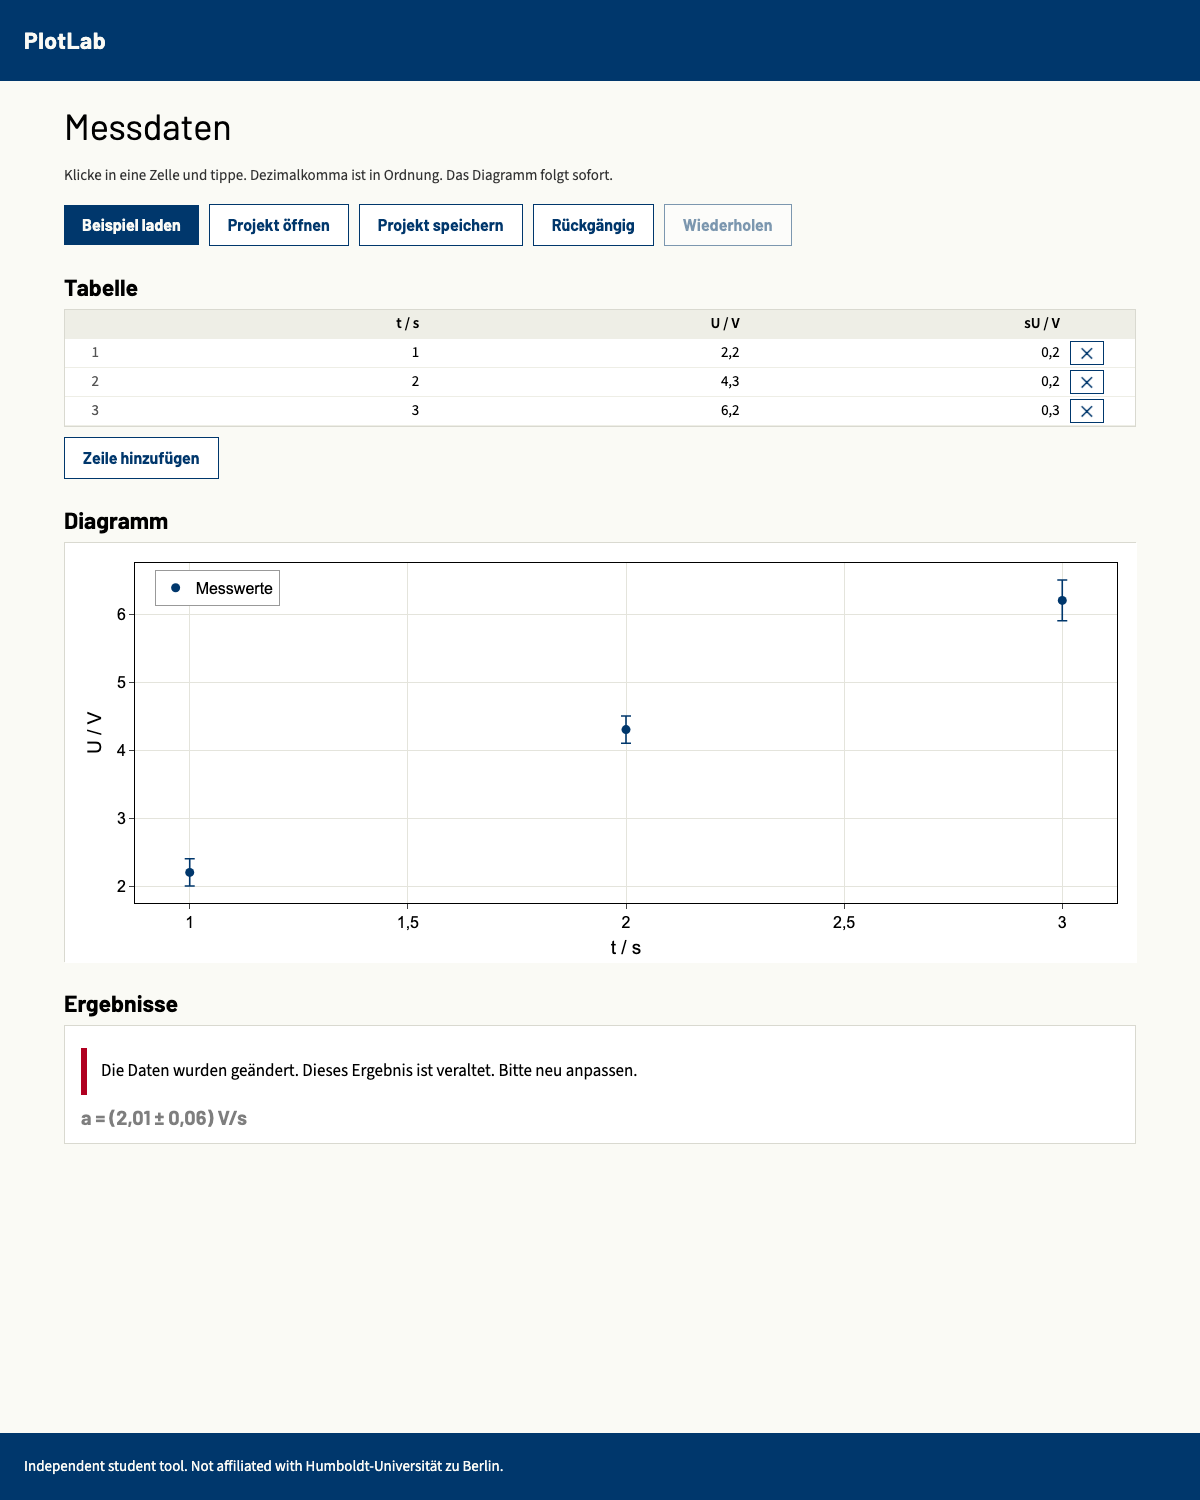
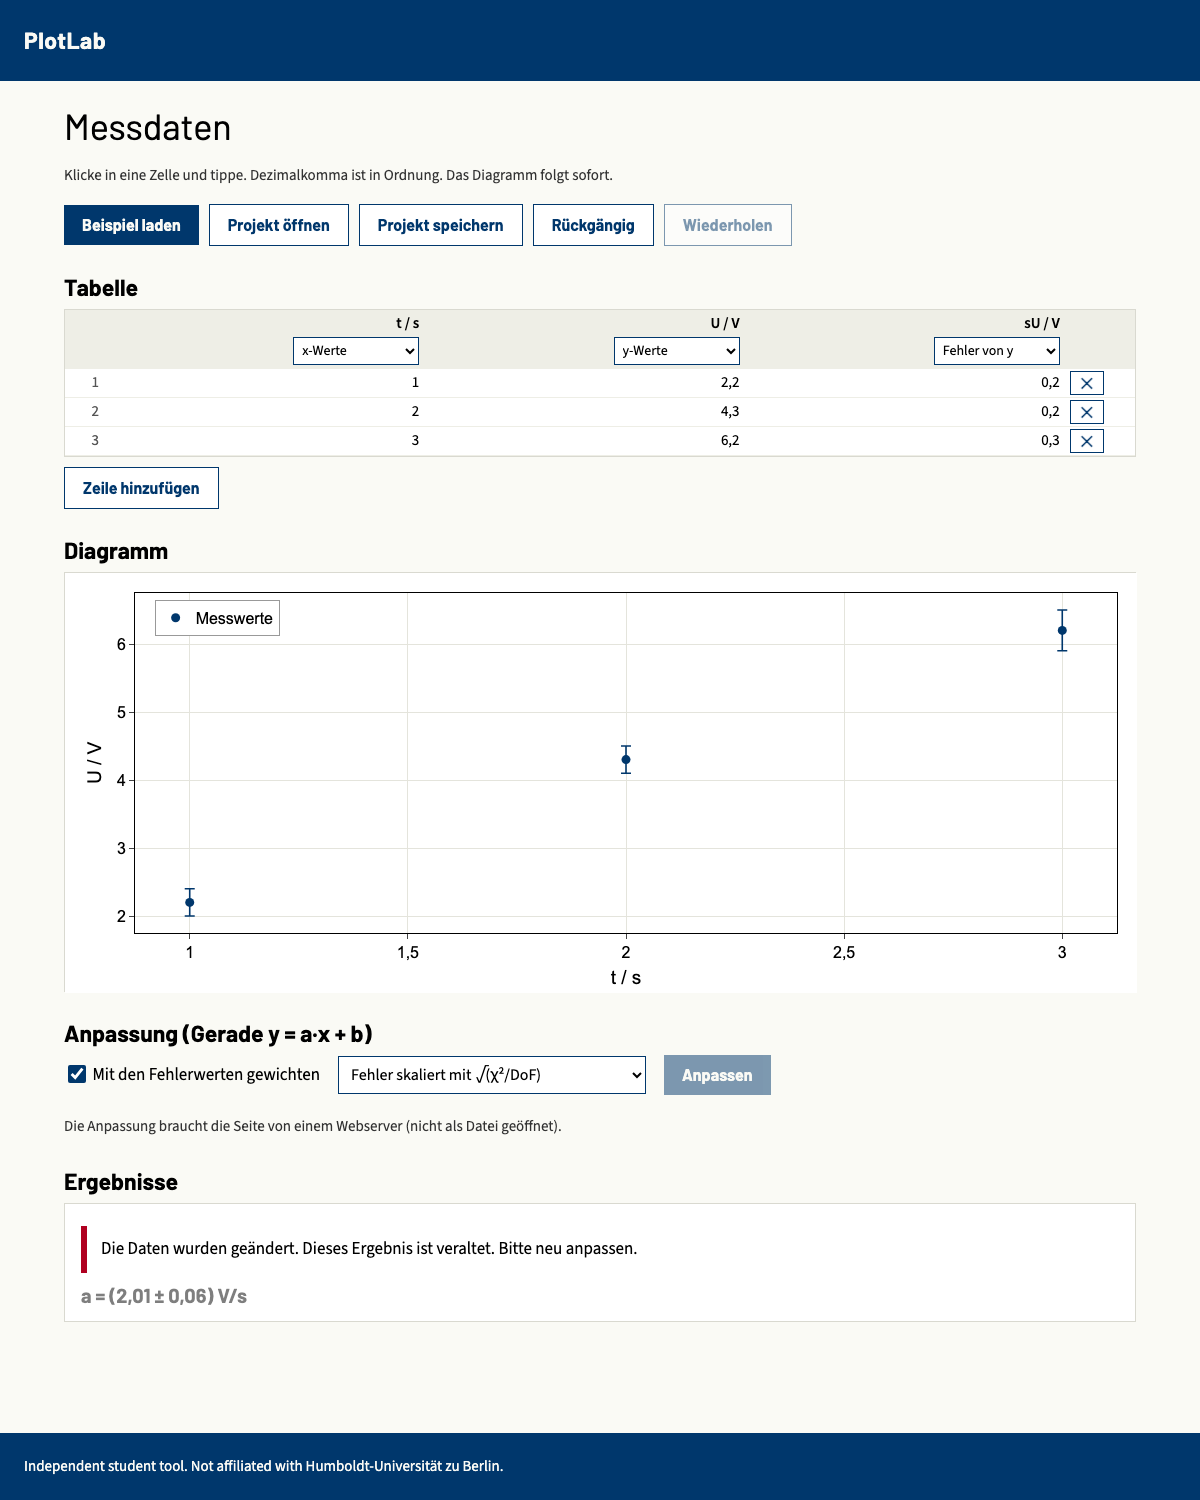
Add column roles and the weighted line fit to the app

diff --git a/app/index.html b/app/index.html
@@ -31,6 +31,16 @@
   table { border-collapse:collapse; width:100%; font-size:15px; line-height:22px; font-variant-numeric:tabular-nums; }
   th,td { padding:0; border-bottom:1px solid var(--soft); }
   th { background:var(--soft); position:sticky; top:0; font-weight:600; padding:3px 10px; text-align:right; }
+  select { font:14px "Source Sans 3", system-ui, sans-serif; padding:2px 4px; border:1px solid var(--blue); border-radius:0; background:#fff; max-width:100%; }
+  th select { display:block; margin:2px 0 0 auto; font-weight:400; }
+  .fitbar { display:flex; gap:18px; flex-wrap:wrap; align-items:center; margin-bottom:10px; }
+  .fitbar select { font-size:16px; padding:6px 8px; }
+  .fitbar input[type=checkbox] { width:18px; height:18px; accent-color:var(--blue); vertical-align:-3px; }
+  .fitbar label.off { color:#666; }
+  .detail { font-size:15px; line-height:24px; margin:6px 0 0; }
+  #results table { width:auto; margin:8px 0; }
+  #results th { position:static; padding:3px 12px; }
+  #results td { padding:3px 12px; text-align:right; }
   td.n { padding:3px 10px; color:#555; text-align:right; width:44px; }
   td input { width:100%; min-width:90px; border:0; border-radius:0; padding:3px 10px; font:inherit; text-align:right; background:transparent; }
   td input:focus { outline:2px solid var(--blue); outline-offset:-2px; background:#fff; }
@@ -67,6 +77,14 @@
   </div>
   <h2>Diagramm</h2>
   <div id="plot"><div class="empty">Noch keine Daten.</div></div>
+  <h2>Anpassung (Gerade y = a·x + b)</h2>
+  <div class="fitbar">
+    <label id="wlabel"><input type="checkbox" id="weighted"> Mit den Fehlerwerten gewichten</label>
+    <select id="errm" aria-label="Fehlermethode"><option value="scaled">Fehler skaliert mit √(χ²/DoF)</option><option value="unscaled">Fehler unskaliert (aus den Fehlerwerten)</option></select>
+    <button class="btn" id="fit" disabled>Anpassen</button>
+    <span class="hint" id="fitstate">Rechenmodul (SciPy) wird geladen …</span>
+  </div>
+  <div id="fitmsg" class="msg" role="alert" hidden></div>
   <h2>Ergebnisse</h2>
   <div id="results"><div class="empty">Noch keine Ergebnisse.</div></div>
 </main>
@@ -79,6 +97,7 @@ const $ = id => document.getElementById(id);
 const esc = s => String(s).replace(/[&<>"]/g, c => ({ "&": "&amp;", "<": "&lt;", ">": "&gt;", '"': "&quot;" }[c]));
 const fmt = new Intl.NumberFormat("de-DE", { maximumFractionDigits: 10 });
 const EXAMPLE = [["t / s", "U / V", "sU / V"], [[1, 2.1, 0.2], [2, 4.3, 0.2], [3, 6.2, 0.3], [4, 8.4, 0.3], [5, 9.9, 0.4]]];
+const ROLE_LABELS = { x: "x-Werte", y: "y-Werte", yerr: "Fehler von y", unused: "nicht verwendet" };
 let proj = null;
 
 // "1,5" and "1.5" both work; empty means no value. Returns undefined for text that is not a number.
@@ -131,13 +150,15 @@ function restoreAutosave() {
 function setProject(p) {
   proj = p; undo = []; redo = []; editKey = null; updateHist();
   $("msg").hidden = true;
-  $("saveproj").disabled = $("addrow").disabled = false;
+  $("saveproj").disabled = $("addrow").disabled = false; if (worker?.ready && !pending) $("fit").disabled = false;
   render();
 }
 function showMsg(t) { $("msg").textContent = t; $("msg").hidden = false; }
 
 function renderTable() {
-  const head = "<tr><th></th>" + proj.columns.map(c => `<th>${esc(c.name)}</th>`).join("") + "<th></th></tr>";
+  const roleSel = (c, j) => `<select class="role" data-role="${j}" aria-label="Rolle von ${esc(c.name)}">` +
+    Object.entries(ROLE_LABELS).map(([r, t]) => `<option value="${r}"${c.role === r ? " selected" : ""}>${t}</option>`).join("") + "</select>";
+  const head = "<tr><th></th>" + proj.columns.map((c, j) => `<th>${esc(c.name)}${roleSel(c, j)}</th>`).join("") + "<th></th></tr>";
   const body = Array.from({ length: nrows() }, (_, i) => `<tr><td class="n">${i + 1}</td>` +
     proj.columns.map((c, j) => `<td><input data-r="${i}" data-c="${j}" aria-label="${esc(c.name)}, Zeile ${i + 1}" value="${c.values[i] === null ? "" : fmt.format(c.values[i])}" inputmode="decimal"></td>`).join("") +
     `<td><button class="btn alt small" data-del="${i}" aria-label="Zeile ${i + 1} löschen">✕</button></td></tr>`).join("");
@@ -151,26 +172,52 @@ function renderPlot() {
   const trace = { x: idx.map(i => x.values[i]), y: idx.map(i => y.values[i]), mode: "markers", type: "scatter", name: "Messwerte", marker: { color: "#00376C", size: 9 } };
   if (e) trace.error_y = { type: "data", array: idx.map(i => e.values[i] ?? 0), visible: true, color: "#00376C", thickness: 1.6, width: 5 };
   const ax = t => ({ title: { text: t, standoff: 10 }, showline: true, linecolor: "#000", mirror: true, ticks: "outside", gridcolor: "#e4e4dc", zeroline: false, exponentformat: "none" });
-  Plotly.react("plot", [trace], { font: { family: "Arial, Helvetica, sans-serif", size: 16, color: "#000" }, separators: ",.",
+  const traces = [trace], fit = freshFit();
+  if (fit) {
+    const xs = idx.map(i => x.values[i]), lo = Math.min(...xs), hi = Math.max(...xs), [a, b] = fit.params.map(q => q.value);
+    traces.push({ x: [lo, hi], y: [a * lo + b, a * hi + b], mode: "lines", type: "scatter", name: "Anpassung", line: { color: "#D55E00", width: 2.5 } });
+  }
+  Plotly.react("plot", traces, { font: { family: "Arial, Helvetica, sans-serif", size: 16, color: "#000" }, separators: ",.",
     margin: { l: 70, r: 20, t: 20, b: 60 }, xaxis: ax(x.name), yaxis: ax(y.name), paper_bgcolor: "#fff", plot_bgcolor: "#fff",
     showlegend: true, legend: { x: 0.02, y: 0.98, bgcolor: "#fff", bordercolor: "#999", borderwidth: 1 } }, { displaylogo: false, responsive: true });
+}
+const freshFit = () => proj.results.find(r => r.kind === "fit" && !isStale(proj, r));
+const uOf = q => (proj.settings.errMethod === "unscaled" && q.uUnscaled !== undefined) ? q.uUnscaled : (q.uScaled ?? q.u);
+function fitDetail(r) {
+  const f = new Intl.NumberFormat("de-DE", { maximumSignificantDigits: 6 }), un = proj.settings.errMethod === "unscaled" && r.weighted;
+  const how = !r.weighted ? "ungewichtet; Fehler aus der Streuung der Messpunkte um die Gerade"
+    : un ? "gewichtet mit den Fehlerwerten; Fehler unskaliert (absolute_sigma=True)" : "gewichtet mit den Fehlerwerten; Fehler mit √(χ²/DoF) skaliert (absolute_sigma=False)";
+  const rows = r.params.map(q => `<tr><td>${esc(q.name)}</td><td>${f.format(q.value)}</td><td>${f.format(q.uScaled)}</td>${r.weighted ? `<td>${f.format(q.uUnscaled)}</td>` : ""}</tr>`).join("");
+  return `<table><thead><tr><th>Parameter</th><th>Wert</th><th>Fehler skaliert</th>${r.weighted ? "<th>Fehler unskaliert</th>" : ""}</tr></thead><tbody>${rows}</tbody></table>` +
+    `<div class="detail" data-how>Methode: ${how}. Freiheitsgrade: ${r.dof}. ` + (r.weighted ? `χ² = ${f.format(r.chi2)}, χ²/DoF = ${f.format(r.chi2 / r.dof)}.` : `Summe der Abweichungsquadrate = ${f.format(r.ssr)}.`) + "</div>";
 }
 function renderResults() {
   if (!proj.results.length) { $("results").innerHTML = '<div class="empty">Noch keine Ergebnisse.</div>'; return; }
   $("results").innerHTML = proj.results.map(r => {
     const stale = isStale(proj, r);
     const lines = (r.params || []).map(q => {
-      const t = huRound(q.value, q.u);
+      const u = uOf(q), t = huRound(q.value, u);
       return `<div class="res">${esc(q.name)} = ${t ? `(${t[0]} ± ${t[1]})` : fmt.format(q.value)}${q.unit ? " " + esc(q.unit) : ""}</div>`;
     }).join("");
-    return `<div class="result${stale ? " stale" : ""}">${stale ? '<div class="msg stalemsg">Die Daten wurden geändert. Dieses Ergebnis ist veraltet. Bitte neu anpassen.</div>' : ""}${lines}</div>`;
+    return `<div class="result${stale ? " stale" : ""}">${stale ? '<div class="msg stalemsg">Die Daten wurden geändert. Dieses Ergebnis ist veraltet. Bitte neu anpassen.</div>' : ""}${lines}${r.kind === "fit" && r.dof ? fitDetail(r) : ""}</div>`;
   }).join("");
 }
-function render() { renderTable(); renderPlot(); renderResults(); autosave(); }
+// Weighting needs an error column; errors method only matters for a weighted fit.
+function syncControls() {
+  const has = !!col("yerr"), w = has && proj.settings.weighted;
+  $("weighted").checked = w; $("weighted").disabled = !has;
+  $("wlabel").classList.toggle("off", !has);
+  $("wlabel").title = has ? "" : "Dafür braucht es eine Spalte mit der Rolle „Fehler von y“.";
+  $("errm").value = proj.settings.errMethod || "scaled"; $("errm").disabled = !w;
+  $("fitmsg").hidden = true;
+}
+function render() { renderTable(); renderPlot(); renderResults(); syncControls(); autosave(); }
 
 // An edit changes data only: keep the focused table as it is, redraw plot and results.
 $("table").addEventListener("input", e => {
-  const el = e.target, v = parseCell(el.value);
+  const el = e.target;
+  if (el.tagName !== "INPUT") return;
+  const v = parseCell(el.value);
   if (v === undefined) { el.classList.add("bad"); showMsg(`Zeile ${+el.dataset.r + 1}, Spalte ${+el.dataset.c + 1}: „${el.value}“ ist keine Zahl.`); return; }
   el.classList.remove("bad");
   if (!$("table").querySelector(".bad")) $("msg").hidden = true;
@@ -178,6 +225,15 @@ $("table").addEventListener("input", e => {
   if (editKey !== key) { pushUndo(); editKey = key; }
   proj.columns[+el.dataset.c].values[+el.dataset.r] = v;
   renderPlot(); renderResults(); autosave();
+});
+// Choosing a role: x, y and error each belong to one column, so taking a role frees it from its old column.
+$("table").addEventListener("change", e => {
+  if (!e.target.matches("select.role")) return;
+  const j = +e.target.dataset.role, role = e.target.value;
+  change(() => {
+    if (role !== "unused") proj.columns.forEach((c, k) => { if (k !== j && c.role === role) c.role = "unused"; });
+    proj.columns[j].role = role;
+  });
 });
 // After leaving a cell, show the number in German format.
 $("table").addEventListener("focusout", e => {
@@ -205,6 +261,46 @@ $("openfile").onchange = async e => {
   r.error ? showMsg(r.error) : setProject(r.project);
   e.target.value = "";
 };
+// SciPy runs in a Web Worker. A module worker cannot start from a file:// page; table and plot still work then, only the fit is off.
+let worker = null, pending = null;
+try { worker = new Worker("../testbuild/fit-worker.js", { type: "module" }); }
+catch { $("fitstate").textContent = "Die Anpassung braucht die Seite von einem Webserver (nicht als Datei geöffnet)."; }
+function fitFailed(why) { $("fit").disabled = false; pending = null; $("fitmsg").textContent = "Die Anpassung ist fehlgeschlagen. " + why; $("fitmsg").hidden = false; }
+if (worker) {
+  worker.onerror = () => { $("fitstate").textContent = "Das Rechenmodul konnte nicht geladen werden. Bitte die Seite neu laden."; };
+  worker.onmessage = ev => {
+    const m = ev.data;
+    if (m.ready) { worker.ready = true; $("fit").disabled = !proj; $("fitstate").textContent = "Bereit."; return; }
+    if (m.loadError) { $("fitstate").textContent = "Das Rechenmodul konnte nicht geladen werden. Bitte die Seite neu laden."; return; }
+    const job = pending; pending = null; $("fit").disabled = false;
+    if (m.error) return fitFailed(m.error);
+    // The student may have edited while Python was working: then the result belongs to old data.
+    if (fingerprint(proj) !== job.fp || proj.settings.weighted !== job.weightedSetting) return fitFailed("Die Daten wurden während der Berechnung geändert. Bitte erneut anpassen.");
+    const out = m.result;
+    change(() => addResult(proj, {
+      kind: "fit", model: "line", weighted: job.weighted, dof: out.dof, n: job.n,
+      ...(job.weighted ? { chi2: out.chi2 } : { ssr: out.ssr }),
+      params: job.names.map(([name, unit], i) => ({ name, unit, value: out.p[i], uScaled: out.err_scaled[i], ...(job.weighted ? { uUnscaled: out.err_unscaled[i] } : {}) })),
+    }));
+  };
+}
+$("fit").onclick = () => {
+  const x = col("x"), y = col("y"), e = col("yerr");
+  if (!x || !y) return fitFailed("Für die Anpassung braucht es eine x- und eine y-Spalte. Wähle die Rollen in der Tabelle.");
+  const weighted = proj.settings.weighted && !!e;
+  const idx = x.values.map((_, i) => i).filter(i => x.values[i] !== null && y.values[i] !== null);
+  if (idx.length < 3) return fitFailed("Es braucht mindestens drei Messpunkte mit x und y.");
+  const badRow = weighted ? idx.find(i => !(e.values[i] > 0)) : undefined;
+  if (badRow !== undefined) return fitFailed(`Alle Fehlerwerte müssen größer als 0 sein (Zeile ${badRow + 1}).`);
+  const unit = c => (c.name.split("/")[1] || "").trim(), ux = unit(x), uy = unit(y);
+  const per = ux ? (uy ? uy + "/" + ux : "1/" + ux) : uy;
+  pending = { fp: fingerprint(proj), weighted, weightedSetting: proj.settings.weighted, n: idx.length, names: [["a", per], ["b", uy]] };
+  $("fit").disabled = true; $("fitmsg").hidden = true;
+  worker.postMessage({ model: "line", x: idx.map(i => x.values[i]), y: idx.map(i => y.values[i]), sy: weighted ? idx.map(i => e.values[i]) : null });
+};
+$("weighted").onchange = e => setSetting("weighted", e.target.checked);
+$("errm").onchange = e => setSetting("errMethod", e.target.value);
+
 restoreAutosave();
 </script>
 </body>

diff --git a/app/project.js b/app/project.js
@@ -24,7 +24,8 @@ function addResult(p, result) {
   p.results.push({ ...result, settings: { ...p.settings }, computedFrom: fingerprint(p) });
 }
 
-const isStale = (p, r) => r.computedFrom !== fingerprint(p);
+// Stale when the data changed or when weighting was switched after the fit.
+const isStale = (p, r) => r.computedFrom !== fingerprint(p) || (r.settings || {}).weighted !== p.settings.weighted;
 
 const save = p => JSON.stringify(p, null, 1);
 

diff --git a/docs/progress.md b/docs/progress.md
@@ -11,7 +11,7 @@ Phase 0 is finished (see `docs/phase0-report.md`; its steps are in the Log). Pha
 - [x] 2. App page in `app/` on the project model: an editable table (type into a cell, add and delete rows). Editing a cell updates the plot at once and marks fit results out of date. Test in a browser: edit a cell, check plot and stale message.
 - [x] 3. Undo and redo (buttons and Ctrl/Cmd+Z, Shift+Ctrl/Cmd+Z) for cell edits, row changes and fit settings. Test: edit, undo, redo; plot and result revert and return.
 - [x] 4. Autosave in the browser and restore after a reload or a closed tab, with a clear "Wiederhergestellt" note. Test: edit, reload, nothing lost.
-- [ ] 5. Column roles chosen by the student (X, Y, y error, x unused), stored in the project, driving plot and fit. Weighted and unweighted line fit with scaled and unscaled errors, χ²/DoF and the method on screen (as in step 3 of Phase 0).
+- [x] 5. Column roles chosen by the student (X, Y, y error, x unused), stored in the project, driving plot and fit. Weighted and unweighted line fit with scaled and unscaled errors, χ²/DoF and the method on screen (as in step 3 of Phase 0).
 - [ ] 6. P3 Elasticity: a derived quantity from the fitted slope with a propagated uncertainty, in HU format. Read the P3 entry in `docs/lab-assignments-checklist.md` and the research in `docs/research/` for the formula and units. Test with a hand calculation.
 - [ ] 7. Weighted-fit numbers checked against an independent reference: NIST linear regression (Norris, unweighted) and hand calculation for the weighted case. R is not installed, so the R comparison in the gate is marked "needs Luis" under Blocked, but do not stop for it.
 - [ ] 8. Timed end-to-end test of P3: open, paste data, set roles, fit, read the result line, save. Record the time of the automated run and the number of clicks, next to the same task in Excel from the checklist. Write `docs/phase1-report.md` with the gate results. Gate items that need R or a real student go under "For Luis". Keep STATUS: RUNNING and write the Phase 2 steps from the roadmap.
@@ -49,3 +49,4 @@ Phase 0 is finished (see `docs/phase0-report.md`; its steps are in the Log). Pha
 - 2026-10-14, loop fix: this branch had started from an old commit and redid finished Phase 0 work, which could not be merged. `docs/loop-prompt.md` now starts with a sync step (fetch, rebase onto origin/main when clean; on a conflict set BLOCKED). The stale attempt is kept in the local branch `backup/stale-step1` (its parser is stricter about thousands separators and a byte-order mark; not needed now).
 - 2026-10-14, Phase 1 step 3: A student can now undo and redo with the buttons "Rückgängig" and "Wiederholen" or with Ctrl/Cmd+Z, Shift+Ctrl/Cmd+Z (and Ctrl+Y). It covers cell edits (typing several characters into one cell is one step), adding and deleting rows, and fit settings. Undo brings back the plot and makes a fit result fresh again; redo makes it out of date again. A new edit clears redo, opening a project or loading the example clears the history, and a wrong entry like "abc" is not a step. Tested in a real browser (`tests/phase1-step3-undo.sh`, 30 hand-typed checks), all 10 checks in `scripts/check.sh` pass. Screenshot `evidence/phase1-step3-undo.png` judged OK: buttons aligned with the others, Wiederholen greyed out when empty. Not yet: there is no screen control for fit settings (step 5), so that part was tested by calling the setting function directly. Undo history is lost on reload (autosave comes in step 4).
 - 2026-10-14, Phase 1 step 4: The app now saves the whole project (data, column roles, settings, fit results) in the browser after every change. After a reload or a new tab it comes back with the note "Wiederhergestellt: Dein letzter Stand wurde automatisch geladen.", which goes away on the next edit. A fit result that was out of date stays out of date. Tested in a real browser (`tests/phase1-step4-autosave.sh`, 25 hand-typed checks): edit, add a row, reload, nothing lost; undo is saved too. Bad cases: a damaged saved state is dropped with "Der automatisch gespeicherte Stand war beschädigt und wurde verworfen."; a browser that refuses to store (private window, full) shows a warning that stays on screen and the app keeps working. Found and fixed while judging the screenshot: that warning vanished at the first keystroke, so it now has its own box. All 11 checks in `scripts/check.sh` pass. Screenshots `evidence/phase1-step4-autosave.png`, `-nostorage.png` judged OK. Limits: the undo history is not kept over a reload; there is one autosave slot per browser (loading the example or opening a file replaces it), and no "start empty" button yet.
+- 2026-10-14, Phase 1 step 5: In the app, the student now picks a role for each column right in the table header (x-Werte, y-Werte, Fehler von y, nicht verwendet); the roles are saved in the project and drive plot axes and fit, and undo restores them. "Anpassen" fits a straight line y = a·x + b with SciPy in the browser. Weighted fits show both errors (scaled with √(χ²/DoF) and unscaled), χ² and χ²/DoF; the error method can be switched and the page names the method. Unweighted fits say so and show the sum of squares. The fit line appears in the plot with a legend entry; any data or weighting change greys the result out as out of date and removes the line, and undo brings both back. Tested in a real browser against closed-form formulas typed by hand (`tests/phase1-step5-fit.sh`): weighted a = 2,00941, u scaled 0,0625 (unscaled 0,0886), b = 0,18235, χ²/DoF = 0,498; unweighted (ordinary least squares) slope, intercept and both errors match to 1e-5 relative. Result line (hand-rounded): a = (2,01 ± 0,06) V/s. Bad cases give clear messages: error value 0 (names the row), no x or y column, fewer than 3 points; an edit made while Python is still calculating is refused instead of being attached to the new data. All 12 checks in `scripts/check.sh` pass. Screenshots `evidence/phase1-step5-fit.png` and `-error.png` judged OK (axis labels with units, German numbers, points and line distinct, legend, error bars). Changed: `isStale` in `app/project.js` now also counts a switched weighting. Not yet: the fit still reads the SciPy engine and fonts from `testbuild/`; the example data has no derived quantity (step 6); no Michaelis-Menten in `app/` (Phase 2).

diff --git a/CHANGELOG.md b/CHANGELOG.md
@@ -2,6 +2,12 @@
 
 Written in plain language for people who do not read code. Newest entry on top.
 
+## 2026-10-14: Straight-line fit in the app, with column roles
+
+- **What a student can now do:** choose in the table header which column is x, y or the y error, then press "Anpassen" to fit a straight line. The result reads (value ± u) unit, for example a = (2,01 ± 0,06) V/s. A weighted fit shows the errors both scaled with √(χ²/DoF) and unscaled, plus χ²/DoF, and says which method is shown. The student can switch weighting and error method. The fitted line appears in the plot. After any change to the data the result is marked out of date and the line disappears; undo brings them back.
+- **Tested:** `tests/phase1-step5-fit.sh` opens the real page and compares weighted and unweighted results with hand-typed textbook formulas. All passed. Clear messages for an error value of 0, missing x or y column and fewer than three points.
+- **Not covered yet:** no derived quantity such as the spring constant (next step), no Michaelis-Menten in the new app page, and no comparison with R yet.
+
 ## 2026-10-14: Autosave
 
 - **What a student can now do:** close the tab or reload the page and find the work as it was, with the note "Wiederhergestellt". Data, column roles and fit results come back, and a result that was out of date stays marked as out of date. If the browser cannot store anything (private window, full disk), a warning says so and asks to use "Projekt speichern".
